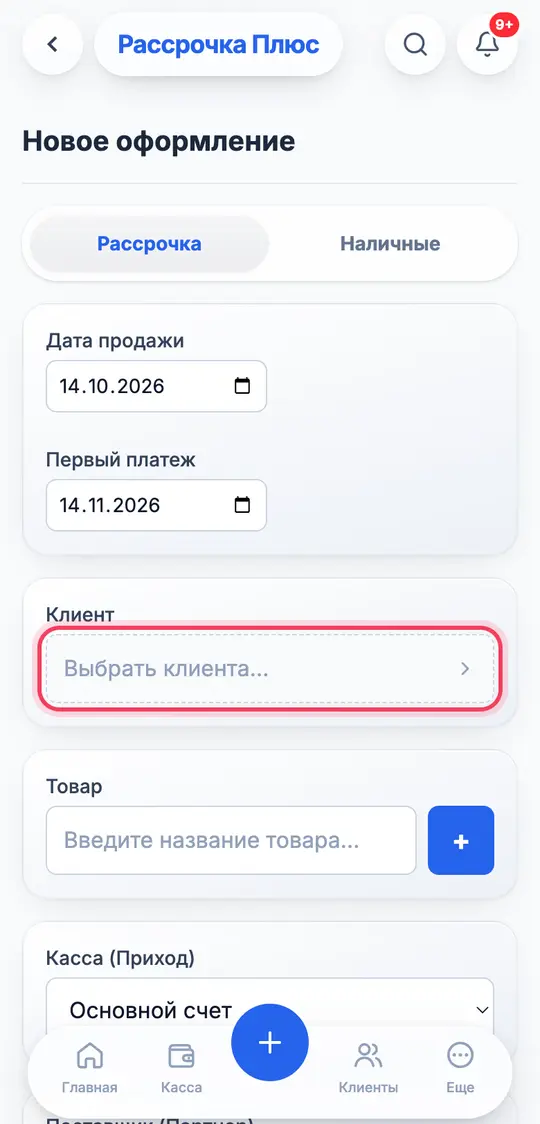
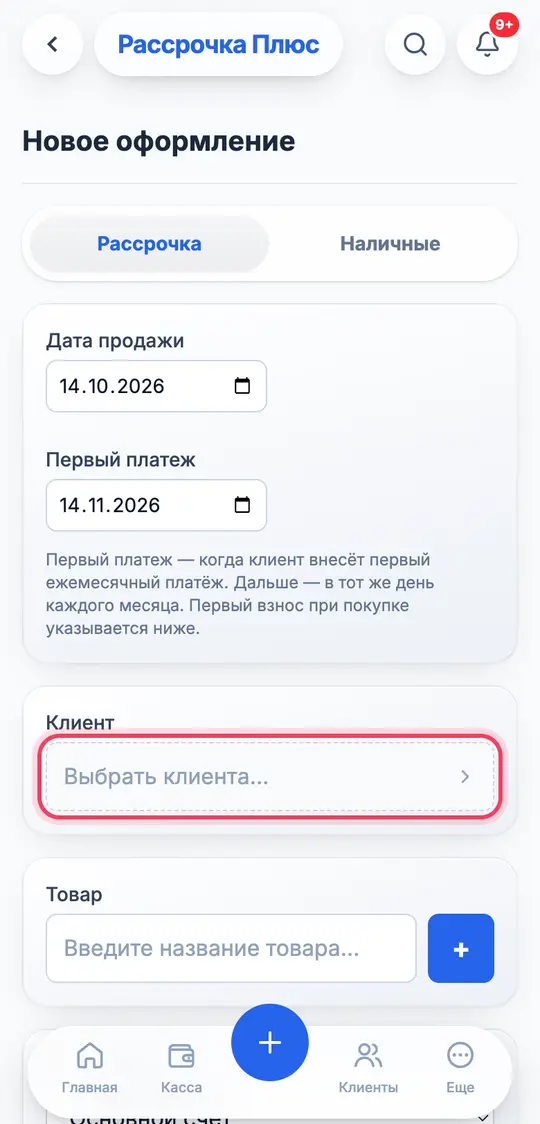
Обучение: инвесторы — где смотреть прибыль («Ожидаемая», «К выплате», история), как выплатить и принять довложение; договор — что такое «Первый платёж» (и подсказка в самой форме). Состав пула: значок «владелец» больше не налезает на цифры

diff --git a/src/helpArticles.ts b/src/helpArticles.ts
@@ -55,7 +55,7 @@ export const HELP_ARTICLES: HelpArticle[] = [
     icon: '📝',
     steps: [
       { text: 'Нажмите «+» внизу → «Оформить продажу».', image: img('sale-1') },
-      { text: 'Проверьте дату продажи и первого платежа, затем «Выбрать клиента».', image: img('sale-2') },
+      { text: 'Проверьте даты и нажмите «Выбрать клиента». «Дата продажи» — когда отдали товар. «Первый платёж» — когда клиент внесёт первый ежемесячный платёж (обычно через месяц).', note: 'Следующие платежи — в тот же день каждого месяца. Первый взнос в день покупки сюда не относится, его укажете ниже.', image: img('sale-2') },
       { text: 'Впишите товар, закуп и наценку — «Цена в рассрочку» посчитается сама. Укажите срок в месяцах и первый взнос, если есть.', note: 'Цену в рассрочку можно поменять вручную.', image: img('sale-3') },
       { text: 'Внизу проверьте «Платёж в месяц» и нажмите «Оформить», затем «Подтвердить». График платежей создастся сам.', image: img('sale-4') },
     ],
@@ -85,11 +85,14 @@ export const HELP_ARTICLES: HelpArticle[] = [
   {
     id: 'investors',
     title: 'Инвесторы и прибыль',
-    summary: 'Кто вложил деньги и сколько ему причитается',
+    summary: 'Добавить инвестора, посмотреть его прибыль, выплатить',
     icon: '🤝',
     steps: [
       { text: '«Ещё» → «Инвесторы» → «Добавить».', image: img('investors-1') },
       { text: 'Укажите сумму вложения и процент прибыли. «Отдельный» — у инвестора свой счёт, «В пул» — общая касса с другими.', note: 'Общая касса («В пул») — на тарифе «Бизнес Pro». Email и пароль — если инвестор будет сам смотреть свою прибыль.', image: img('investors-2') },
+      { text: 'Прибыль: откройте инвестора. «Ожидаемая прибыль» — сколько он заработает с текущих договоров, «К выплате» — сколько уже заработал и ещё не получил.', note: 'Прибыль начисляется по мере того, как клиенты платят. Вся история — прибыль, выплаты, взносы — во вкладке «Все операции».', image: img('investors-3') },
+      { text: 'Выплатить: на главной «Расход» → «Выплата инвестору» → выберите инвестора → «Из Прибыли» → сумма → «Подтвердить расход».', note: 'Вернуть часть вложения — «Из Инвестиций».', image: img('investors-4') },
+      { text: 'Инвестор добавил денег: на главной «Приход» → вкладка «Инвестор» → выберите его и сумму.', image: img('investors-5') },
     ],
   },
   {

diff --git a/components/InvestorDetails.tsx b/components/InvestorDetails.tsx
@@ -673,14 +673,16 @@ const InvestorDetails: React.FC<InvestorDetailsProps> = ({
                 <div key={m.id} className={`flex items-center gap-3 py-1 rounded-xl transition-colors ${m.id === investor.id ? 'bg-slate-50 dark:bg-slate-700/50 -mx-2 px-2' : ''}`}>
                   <div className={`w-8 h-8 rounded-full flex items-center justify-center text-xs font-bold shrink-0 ${palette.bg} ${palette.text}`}>{m.name.charAt(0)}</div>
                   <div className="flex-1 min-w-0">
-                    <div className="flex items-center justify-between mb-1">
+                    {/* Перенос, а не сжатие: у владельца справа длинное «% кап. + % упр.»,
+                        и значок «владелец» налезал на цифры */}
+                    <div className="flex flex-wrap items-center justify-between gap-x-2 gap-y-0.5 mb-1">
                       <div className="flex items-center gap-1.5 min-w-0">
                         <span className={`text-sm truncate ${m.id === investor.id ? 'font-bold text-slate-900 dark:text-white' : 'font-medium text-slate-700 dark:text-slate-300'}`}>{m.name}</span>
                         {m.id === poolOwnerId && <span className="text-xs bg-emerald-100 dark:bg-emerald-900/40 text-emerald-700 dark:text-emerald-400 px-1.5 py-0.5 rounded-full shrink-0">владелец</span>}
                         {m.id === investor.id && m.id !== poolOwnerId && <span className="text-xs bg-indigo-100 dark:bg-indigo-900/40 text-indigo-600 dark:text-indigo-400 px-1.5 py-0.5 rounded-full shrink-0">вы</span>}
                         {!isActive && <span className="text-xs bg-slate-100 dark:bg-slate-700 text-slate-500 px-1.5 py-0.5 rounded-full shrink-0">вышел</span>}
                       </div>
-                      <div className="flex items-center gap-3 ml-2 shrink-0">
+                      <div className="flex items-center gap-3 ml-auto shrink-0">
                         <span className="text-xs text-slate-400">{Math.round(capitalShare * 10) / 10}% кап.</span>
                         <span className={`text-sm font-bold ${palette.text}`}>
                           {Math.round(profitShare * 10) / 10}%{m.id === poolOwnerId ? ` + ${Math.round(poolComposition.mgrPercent * 10) / 10}% упр.` : ' приб.'}

diff --git a/components/NewSale.tsx b/components/NewSale.tsx
@@ -1160,6 +1160,12 @@ if (mode === 'CASH') {
                 </div>
             )}
           </div>
+          {/* Что такое «Первый платеж», спрашивали чаще всего: путали с первым взносом */}
+          {mode === 'INSTALLMENT' && !formData.id && (
+              <p className="text-xs text-slate-500 dark:text-slate-400 mt-3 leading-snug">
+                Первый платеж — когда клиент внесёт первый ежемесячный платёж. Дальше — в тот же день каждого месяца. Первый взнос при покупке указывается ниже.
+              </p>
+          )}
         </div>
 
         <div className="bg-white dark:bg-slate-800 p-4 rounded-xl border border-slate-200 dark:border-slate-700 shadow-sm">

diff --git a/scripts/help-shots/helpshots.py b/scripts/help-shots/helpshots.py
@@ -65,6 +65,17 @@ ARTICLES = {
   'investors': [
     more, {"click": "Инвесторы", "sel": "button,a", "wait": 1500, "hl": "Добавить", "shot": "investors-1"},
     {"click": "Добавить", "wait": 1500, "shot": "investors-2"},
+    {"click": "Отмена", "wait": 900}, {"click": "Закрыть", "sel": "button", "wait": 900},
+    {"js": "(()=>{const c=[...document.querySelectorAll('[class*=cursor-pointer],button')].find(e=>/Руслан Алиев/.test(e.textContent) && e.offsetHeight>40 && e.offsetHeight<200); c.click(); return 'open'})()", "wait": 1700},
+    {"scroll": 700, "wait": 900}, {"hl": "К выплате", "sel": "div", "wait": 300, "shot": "investors-3"},
+    {"click": "Главная", "sel": "button,a", "wait": 1300},
+    {"click": "Расход", "sel": "button", "wait": 1500}, {"click": "Выплата инвестору", "sel": "button", "wait": 1200},
+    {"js": "(()=>{const s=[...document.querySelectorAll('select')].find(x=>x.getClientRects().length && [...x.options].some(o=>/Руслан/.test(o.text))); if(!s) return 'nosel'; const o=[...s.options].find(o=>/Руслан/.test(o.text)); const set=Object.getOwnPropertyDescriptor(HTMLSelectElement.prototype,'value').set; set.call(s,o.value); s.dispatchEvent(new Event('change',{bubbles:true})); return 'sel'})()", "wait": 1000},
+    {"click": "Из Прибыли", "wait": 800},
+    scroll_to('Источник списания', 'start'), {"js": "window.scrollBy(0,-120);[...document.querySelectorAll('*')].filter(e=>e.scrollHeight>e.clientHeight+20 && /auto|scroll/.test(getComputedStyle(e).overflowY) && e.getClientRects().length).forEach(e=>e.scrollTop-=140);1", "wait": 600},
+    {"hl": "Из Прибыли", "sel": "button", "wait": 300, "shot": "investors-4"},
+    {"click": "Главная", "sel": "button,a", "wait": 1300},
+    {"click": "Приход", "sel": "button", "wait": 1500}, {"hl": "Инвестор", "sel": "button", "wait": 300, "shot": "investors-5"},
   ],
   'employees': [
     more, {"click": "Сотрудники", "sel": "button,a", "wait": 1500},
